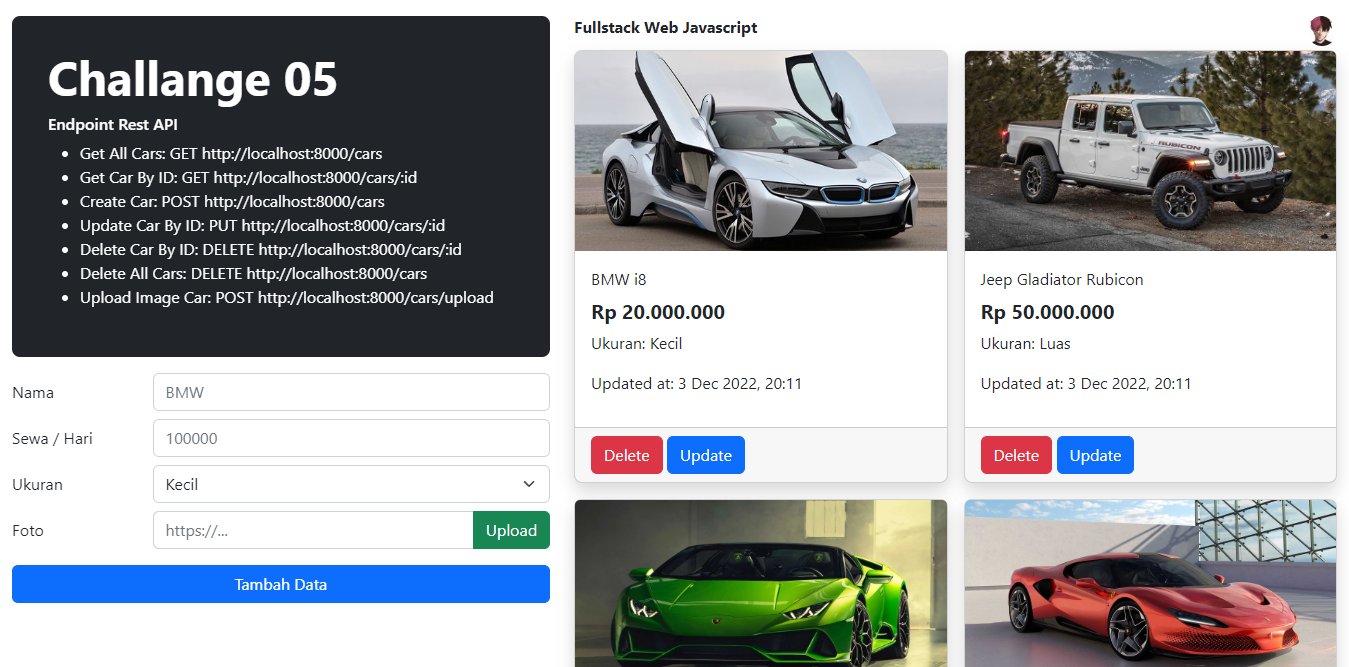
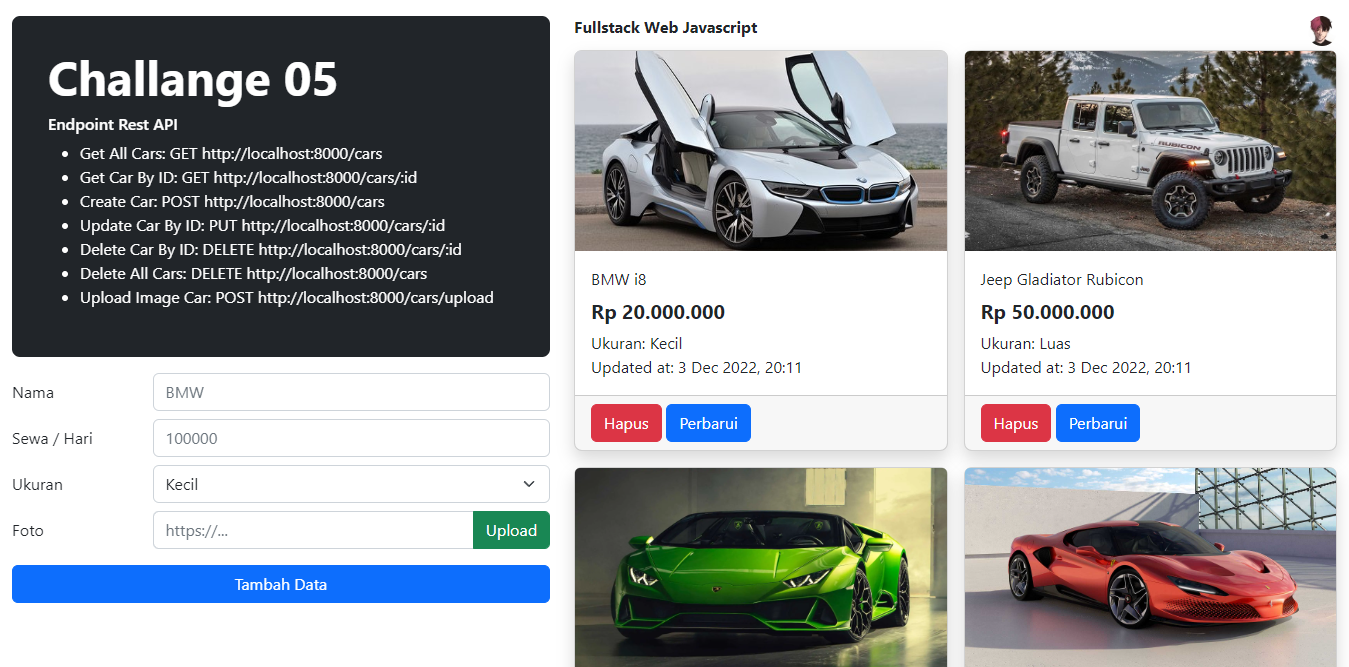
fe: added update data code, maybe final ch 5 :)

Changed region(s): [[0.4047, 0.5397, 0.9963, 1.0]]

diff --git a/public/index.js b/public/index.js
@@ -41,27 +41,27 @@ const deleteCar = (id) => {
   });
 };
 
+const formatUpdateAt = (date) => {
+  const dateObj = new Date(date);
+  const month = dateObj.toLocaleString("default", { month: "short" });
+  const day = dateObj.getDate();
+  const year = dateObj.getFullYear();
+  const hour = dateObj.getHours();
+  const minute = dateObj.getMinutes();
+  return `${day} ${month} ${year}, ${hour}:${minute}`;
+};
+
+const formatRP = (price) => {
+  const formatter = new Intl.NumberFormat("id-ID", {
+    style: "currency",
+    currency: "IDR",
+    minimumFractionDigits: 0,
+  });
+  const priceInt = parseInt(price);
+  return formatter.format(priceInt);
+};
+
 const cardCar = (car) => {
-  const formatUpdateAt = (date) => {
-    const dateObj = new Date(date);
-    const month = dateObj.toLocaleString("default", { month: "short" });
-    const day = dateObj.getDate();
-    const year = dateObj.getFullYear();
-    const hour = dateObj.getHours();
-    const minute = dateObj.getMinutes();
-    return `${day} ${month} ${year}, ${hour}:${minute}`;
-  };
-
-  const formatRP = (price) => {
-    const formatter = new Intl.NumberFormat("id-ID", {
-      style: "currency",
-      currency: "IDR",
-      minimumFractionDigits: 0,
-    });
-    const priceInt = parseInt(price);
-    return formatter.format(priceInt);
-  };
-
   const card = document.createElement("div");
   card.classList.add("col");
   card.id = `car-${car.id}`;
@@ -69,37 +69,144 @@ const cardCar = (car) => {
     <div class="card h-100 rounded-3 shadow">
         <img class="card-img-top" src="${car.image_url}" alt="${
     car.name
-  }" height="200" />
+  }" height="200" role="button" onClick="showDetailCar(${car.id})">
         <div class="card-body">
             <p class="card-title">${car.name}</p>
             <h5 class="card-title fw-bold">${formatRP(car.rent_price)}</h5>
-            <p>Ukuran: ${car.size}</p>
-            <p>Updated at: ${formatUpdateAt(car.updatedAt)}</p>
+            <p class="my-0">Ukuran: ${car.size}</p>
+            <p class="my-0">Updated at: ${formatUpdateAt(car.updatedAt)}</p>
         </div>
         <div class="card-footer">
             <button class="btn btn-danger" onclick="deleteCar(${
               car.id
-            })">Delete</button>
-            <button type="button" class="btn btn-primary" onClick="Swal.fire({title: 'Coming Soon!', text: 'Fitur ini akan segera hadir', icon: 'info'})">Update</button>
+            })">Hapus</button>
+            <button type="button" class="btn btn-primary" onClick="updateCarWithBootstrapModal(${
+              car.id
+            })">Perbarui</button>
         </div>
     </div>`;
   return card;
 };
 
-const form = document.querySelector("#car-form");
+const showDetailCar = (id) => {
+  fetch(`/cars/${id}`)
+    .then((res) => res.json())
+    .then((car) => {
+      const modal = document.querySelector("#detailModal");
+      modal.querySelector(".modal-body").innerHTML = `
+      <img class="w-100" src="${car.image_url}" alt="${car.name}" height="250">
+      <div class="p-4">
+          <p class="my-0">${car.name}</p>
+          <p class="my-0">${formatRP(car.rent_price)}</p>
+          <p class="my-0">Ukuran: ${car.size}</p>
+          <p class="my-0">Updated at: ${formatUpdateAt(car.updatedAt)}</p>
+      </div>
+        `;
+      const myModal = new bootstrap.Modal(modal);
+      myModal.show();
+    })
+    .catch((err) => {
+      Swal.fire(
+        "Error!",
+        "Data tidak dapat ditemukan. Coba refresh halaman.",
+        "error"
+      );
+    });
+};
+
+const updateCarWithBootstrapModal = (id) => {
+  fetch(`/cars/${id}`)
+    .then((res) => res.json())
+    .then((car) => {
+      const modal = document.querySelector("#updateModal");
+      modal.querySelector(".modal-body").innerHTML = `
+      <form id="updateForm">
+        <div class="mb-2">
+          <label for="name" class="form-label">Nama</label>
+          <input type="text" class="form-control" id="name" name="name" value="${
+            car.name
+          }" required>
+        </div>
+        <div class="mb-2">
+          <label for="rent_price" class="form-label">Sewa / Hari</label>
+          <input type="number" class="form-control" id="rent_price" name="rent_price" value="${
+            car.rent_price
+          }" required>
+        </div>
+        <div class="mb-2">
+          <label for="size" class="form-label">Ukuran</label>
+          <select class="form-select" name="size" id="size" required>
+            <option value="Kecil" ${
+              car.size === "Kecil" ? "selected" : ""
+            }>Kecil</option>
+            <option value="Sedang" ${
+              car.size === "Sedang" ? "selected" : ""
+            }>Sedang</option>
+            <option value="Luas" ${
+              car.size === "Luas" ? "selected" : ""
+            }>Luas</option>
+          </select>
+        </div>
+        <div class="mb-2">
+          <label for="image_url" class="form-label">Foto</label>
+          <div class="input-group">
+            <input class="form-control" type="url" name="image_url" id="image_url" placeholder="https://..." value="${
+              car.image_url
+            }" required>
+            <button class="btn btn-success" type="button" id="btn_upload" onclick="updateForm.anu.click()">Upload</button>
+          </div>
+        </div>
+        <input class="form-control" type="file" name="anu" id="anu" hidden onchange="uploadImage(this, updateForm.image_url)">
+        <button type="submit" class="btn btn-primary w-100 mt-2">Simpan</button>
+      </form>`;
+      const myModal = new bootstrap.Modal(modal);
+      myModal.show();
+      const form = document.querySelector("#updateForm");
+      form.addEventListener("submit", (e) => {
+        e.preventDefault();
+
+        fetch(`/cars/${id}`, {
+          method: "PUT",
+          headers: {
+            "Content-Type": "application/json",
+          },
+          body: JSON.stringify({
+            name: form.name.value,
+            rent_price: form.rent_price.value,
+            size: form.size.value,
+            image_url: form.image_url.value,
+          }),
+        })
+          .then((res) => res.json())
+          .then((car) => {
+            const card = document.querySelector(`#car-${car.id}`);
+            card.replaceWith(cardCar(car));
+            myModal.hide();
+            Swal.fire("Berhasil!", "Data berhasil diupdate", "success");
+          })
+          .catch((err) => {
+            Swal.fire("Error!", "Data gagal diupdate", "error");
+          });
+      });
+    })
+    .catch((err) => {
+      Swal.fire(
+        "Error!",
+        "Data tidak dapat ditemukan. Coba refresh halaman.",
+        "error"
+      );
+    });
+};
+
+const form = document.querySelector("#createForm");
 const name = document.querySelector("#name");
 const rent_price = document.querySelector("#rent_price");
 const size = document.querySelector("#size");
 const image_url = document.querySelector("#image_url");
-const btn_upload = document.querySelector("#btn_upload");
-const anu = document.querySelector("#anu");
 
-btn_upload.addEventListener("click", () => {
-  anu.click();
-});
-
-anu.addEventListener("change", (e) => {
-  const file = e.target.files[0];
+const uploadImage = (e, input) => {
+  console.log(input);
+  const file = e.files[0];
   const formData = new FormData();
   formData.append("image", file);
 
@@ -112,14 +219,14 @@ anu.addEventListener("change", (e) => {
         if (res.status == 400) {
           Swal.fire("Error!", res.message, "error");
         } else {
-          image_url.value = `${link}${res.path}`;
+          input.value = `${link}${res.path}`;
         }
       });
     })
     .catch((err) => {
       Swal.fire("Error!", "Pastikan koneksimu stabil", "error");
     });
-});
+};
 
 form.addEventListener("submit", async (event) => {
   event.preventDefault();

diff --git a/public/index.html b/public/index.html
@@ -28,7 +28,7 @@
                             <ul id="endpoint"></ul>
                         </div>
                     </div>
-                    <form method="POST" action="/cars" id="car-form">
+                    <form method="POST" id="createForm">
                         <div class="row mb-2">
                             <label class="col-3 col-form-label" for="name">Nama</label>
                             <div class="col-9">
@@ -57,10 +57,10 @@
                             <div class="input-group col-9 w-75">
                                 <input class="form-control" type="url" name="image_url" id="image_url"
                                     placeholder="https://...">
-                                <button class="btn btn-success" type="button" id="btn_upload">Upload</button>
+                                <button class="btn btn-success" type="button" id="btn_upload" onclick="createForm.anu.click()">Upload</button>
                             </div>
                         </div>
-                        <input class="form-control" type="file" name="anu" id="anu" hidden />
+                        <input class="form-control" type="file" name="anu" id="anu" hidden onchange="uploadImage(this, createForm.image_url)">
                         <button type="submit" class="btn btn-primary w-100 mt-2">Tambah Data</button>
                     </form>
                 </div>
@@ -75,6 +75,30 @@
                 </div>
 
                 <div id="result" class="row row-cols-1 row-cols-lg-2 align-content-center g-3"></div>
+            </div>
+        </div>
+    </div>
+
+    <div class="modal fade" id="detailModal" tabindex="-1" aria-labelledby="detailModalLabel" aria-hidden="true">
+        <div class="modal-dialog modal-dialog-centered modal-dialog-scrollable">
+            <div class="modal-content">
+                <div class="modal-header">
+                    <h5 class="modal-title" id="detailModalLabel">Rincian Mobil</h5>
+                    <button type="button" class="btn-close" data-bs-dismiss="modal" aria-label="Close"></button>
+                </div>
+                <div class="modal-body px-0 py-1"></div>
+            </div>
+        </div>
+    </div>
+
+    <div class="modal fade" id="updateModal" tabindex="-1" aria-labelledby="updateModalLabel" aria-hidden="true">
+        <div class="modal-dialog modal-dialog-centered modal-dialog-scrollable">
+            <div class="modal-content">
+                <div class="modal-header">
+                    <h5 class="modal-title" id="updateModalLabel">Perbarui Data</h5>
+                    <button type="button" class="btn-close" data-bs-dismiss="modal" aria-label="Close"></button>
+                </div>
+                <div class="modal-body"></div>
             </div>
         </div>
     </div>
